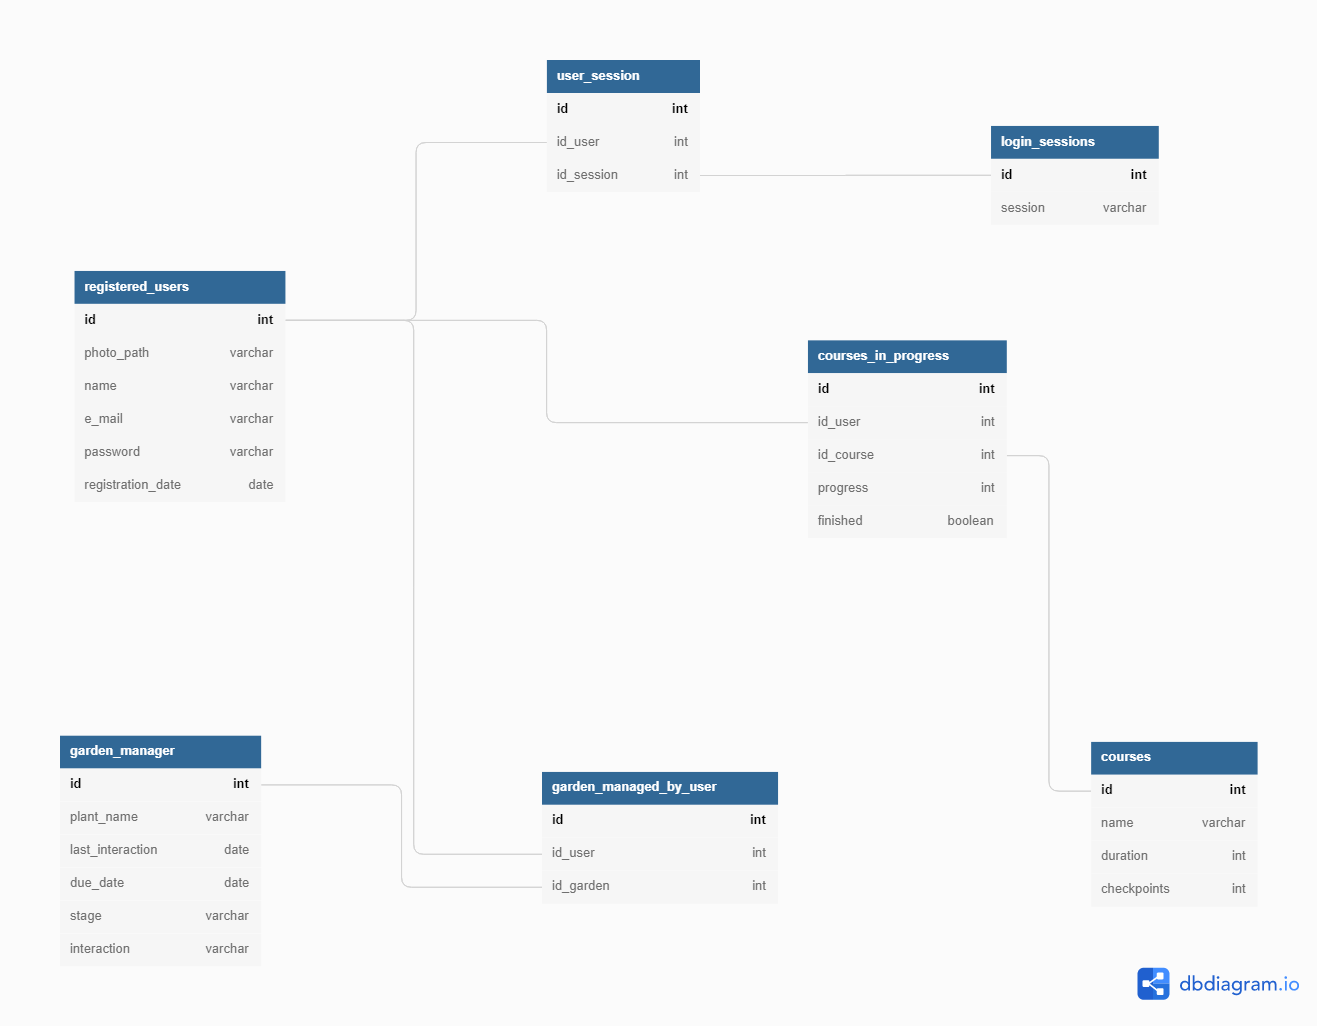
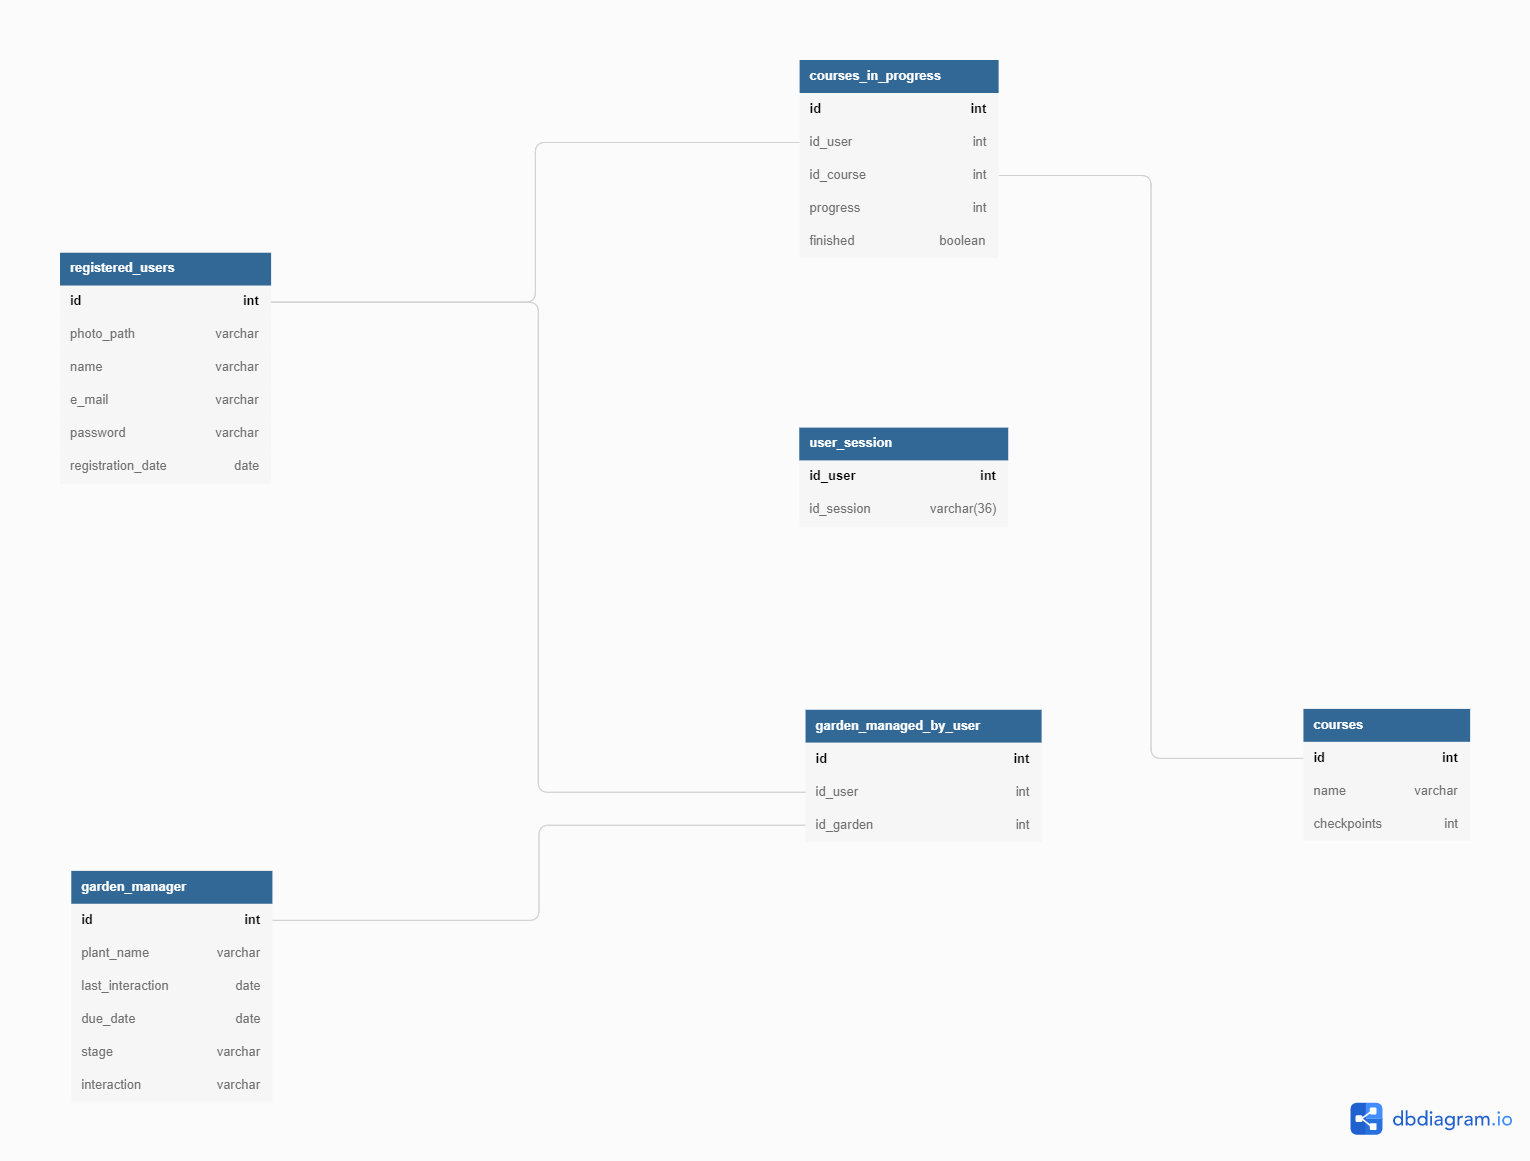
Some changes in leaderboard.html file and updates on database representation and sql script

diff --git a/public/leaderboard.html b/public/leaderboard.html
@@ -40,97 +40,86 @@
           <div class="divTableCell">Photo</div>
           <div class="divTableCell">Name</div>
           <div class="divTableCell">Number of finished courses</div>
-          <div class="divTableCell">Number of hours studied</div>
         </div>
         <div class="divTableRow">
           <div class="divTableCell">1</div>
           <div class="divTableCell">
-            <img src="images/boy-smiling.png" alt="Boy smiling" />
+            <img src="" alt="Someone happy to be in top 10" />
           </div>
-          <div class="divTableCell">John Doe</div>
-          <div class="divTableCell">2</div>
-          <div class="divTableCell">10</div>
+          <div class="divTableCell"></div>
+          <div class="divTableCell"></div>
         </div>
         <div class="divTableRow">
           <div class="divTableCell">2</div>
           <div class="divTableCell">
-            <img src="images/smiling-girl.png" alt="Girl smiling" />
+            <img src="" alt="Someone happy to be in top 10" />
           </div>
-          <div class="divTableCell">Angelina Jolie</div>
-          <div class="divTableCell">1</div>
+          <div class="divTableCell"></div>
+          <div class="divTableCell"></div>
+        </div>
+        <div class="divTableRow">
+          <div class="divTableCell">3</div>
+          <div class="divTableCell">
+            <img src="" alt="Someone happy to be in top 10" />
+          </div>
+          <div class="divTableCell"></div>
+          <div class="divTableCell"></div>
+        </div>
+        <div class="divTableRow">
+          <div class="divTableCell">4</div>
+          <div class="divTableCell">
+            <img src="" alt="Someone happy to be in top 10" />
+          </div>
+          <div class="divTableCell"></div>
+          <div class="divTableCell"></div>
+        </div>
+        <div class="divTableRow">
           <div class="divTableCell">5</div>
+          <div class="divTableCell">
+            <img src="" alt="Someone happy to be in top 10" />
+          </div>
+          <div class="divTableCell"></div>
+          <div class="divTableCell"></div>
         </div>
         <div class="divTableRow">
-          <div class="divTableCell">2</div>
+          <div class="divTableCell">6</div>
           <div class="divTableCell">
-            <img src="images/smiling-girl.png" alt="Girl smiling" />
+            <img src="" alt="Someone happy to be in top 10" />
           </div>
-          <div class="divTableCell">Angelina Jolie</div>
-          <div class="divTableCell">1</div>
-          <div class="divTableCell">5</div>
+          <div class="divTableCell"></div>
+          <div class="divTableCell"></div>
         </div>
         <div class="divTableRow">
-          <div class="divTableCell">1</div>
+          <div class="divTableCell">7</div>
           <div class="divTableCell">
-            <img src="images/boy-smiling.png" alt="Boy smiling" />
+            <img src="" alt="Someone happy to be in top 10" />
           </div>
-          <div class="divTableCell">John Doe</div>
-          <div class="divTableCell">2</div>
+          <div class="divTableCell"></div>
+          <div class="divTableCell"></div>
+        </div>
+        <div class="divTableRow">
+          <div class="divTableCell">8</div>
+          <div class="divTableCell">
+            <img src="" alt="Someone happy to be in top 10" />
+          </div>
+          <div class="divTableCell"></div>
+          <div class="divTableCell"></div>
+        </div>
+        <div class="divTableRow">
+          <div class="divTableCell">9</div>
+          <div class="divTableCell">
+            <img src="" alt="Someone happy to be in top 10" />
+          </div>
+          <div class="divTableCell"></div>
+          <div class="divTableCell"></div>
+        </div>
+        <div class="divTableRow">
           <div class="divTableCell">10</div>
-        </div>
-        <div class="divTableRow">
-          <div class="divTableCell">2</div>
           <div class="divTableCell">
-            <img src="images/smiling-girl.png" alt="Girl smiling" />
+            <img src="" alt="Someone happy to be in top 10" />
           </div>
-          <div class="divTableCell">Angelina Jolie</div>
-          <div class="divTableCell">1</div>
-          <div class="divTableCell">5</div>
-        </div>
-        <div class="divTableRow">
-          <div class="divTableCell">1</div>
-          <div class="divTableCell">
-            <img src="images/boy-smiling.png" alt="Boy smiling" />
-          </div>
-          <div class="divTableCell">John Doe</div>
-          <div class="divTableCell">2</div>
-          <div class="divTableCell">10</div>
-        </div>
-        <div class="divTableRow">
-          <div class="divTableCell">1</div>
-          <div class="divTableCell">
-            <img src="images/boy-smiling.png" alt="Boy smiling" />
-          </div>
-          <div class="divTableCell">John Doe</div>
-          <div class="divTableCell">2</div>
-          <div class="divTableCell">10</div>
-        </div>
-        <div class="divTableRow">
-          <div class="divTableCell">1</div>
-          <div class="divTableCell">
-            <img src="images/boy-smiling.png" alt="Boy smiling" />
-          </div>
-          <div class="divTableCell">John Doe</div>
-          <div class="divTableCell">2</div>
-          <div class="divTableCell">10</div>
-        </div>
-        <div class="divTableRow">
-          <div class="divTableCell">2</div>
-          <div class="divTableCell">
-            <img src="images/smiling-girl.png" alt="Girl smiling" />
-          </div>
-          <div class="divTableCell">Angelina Jolie</div>
-          <div class="divTableCell">1</div>
-          <div class="divTableCell">5</div>
-        </div>
-        <div class="divTableRow">
-          <div class="divTableCell">2</div>
-          <div class="divTableCell">
-            <img src="images/smiling-girl.png" alt="Girl smiling" />
-          </div>
-          <div class="divTableCell">Angelina Jolie</div>
-          <div class="divTableCell">1</div>
-          <div class="divTableCell">5</div>
+          <div class="divTableCell"></div>
+          <div class="divTableCell"></div>
         </div>
       </section>
     </div>

diff --git a/models/leaderboardModel.js b/models/leaderboardModel.js
@@ -1,0 +1,2 @@
+const db = require("../database");
+
